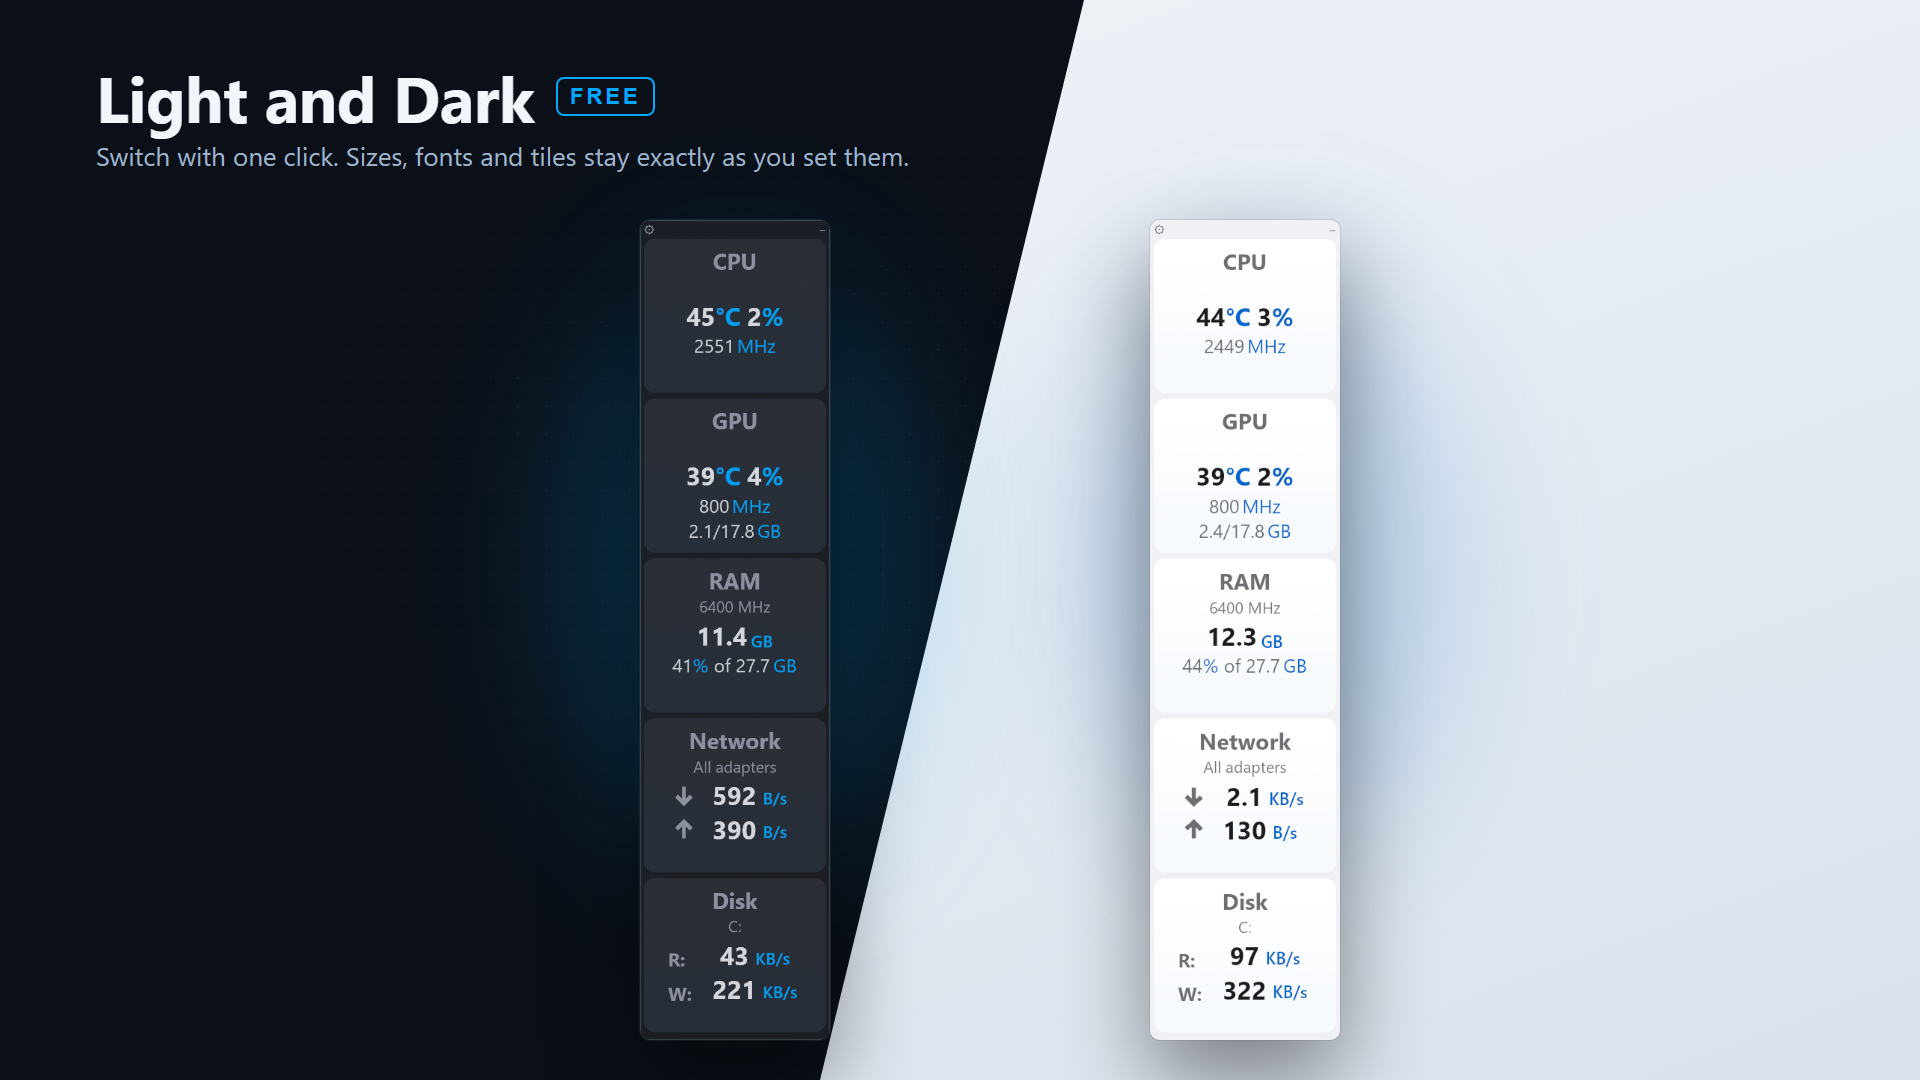
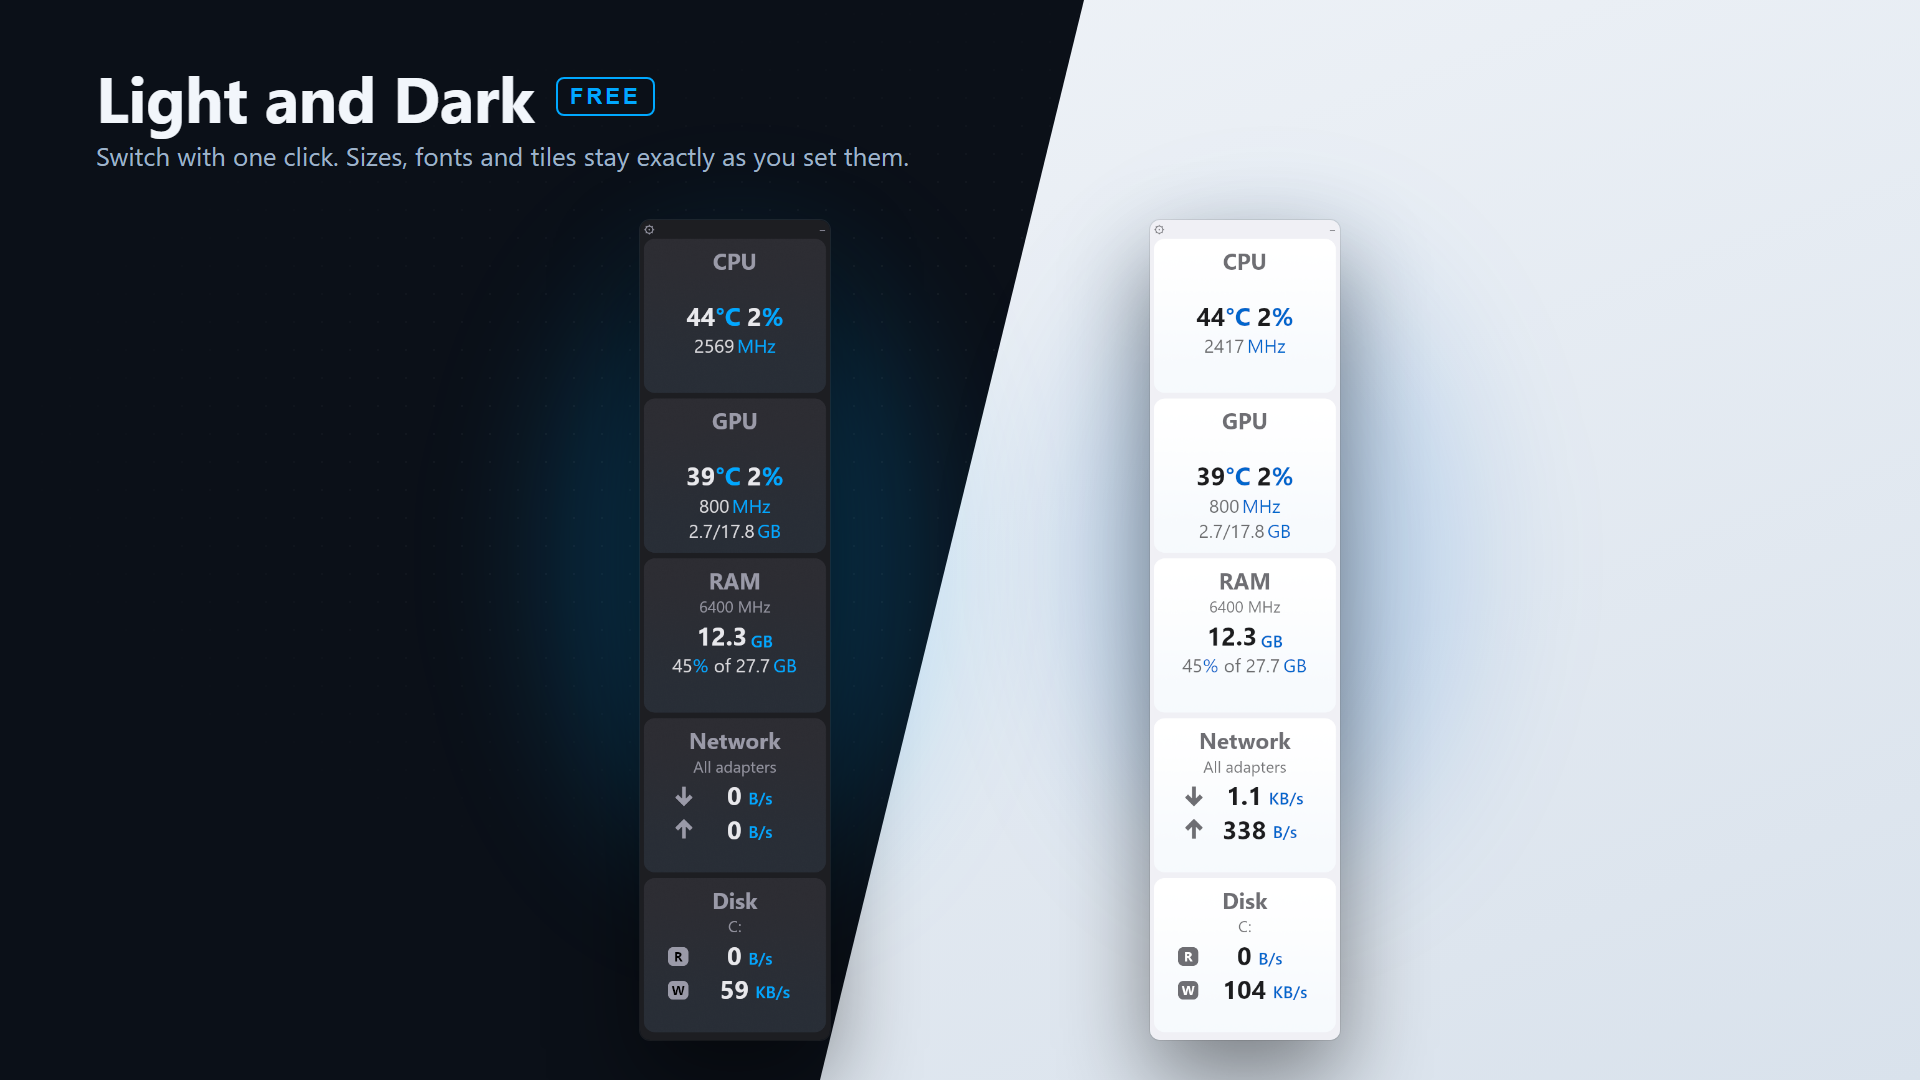
v1.3.6: README, refreshed screenshots, privacy note on the setup log
README points at the v1.3.6 standalone download with its SHA-256 and
VirusTotal result (0/71). All classic-widget screenshots are retaken with
the R/W disk badges; the colors picture now shows Classic themes in
different color schemes. The privacy policy adds the installer's local
setup log.

diff --git a/README.md b/README.md
@@ -4,8 +4,8 @@
 Flux Monitor keeps live CPU, GPU, memory, network and disk readings in a compact
 desktop widget, and Storage Explorer shows which folders fill your drives.
 
-[![Release](https://img.shields.io/badge/release-v1.3.5-5898a0)](https://github.com/matthew-hakes/FluxMonitor/releases/tag/v1.3.5)
-[![VirusTotal](https://img.shields.io/badge/VirusTotal-0%2F71-2ea44f)](https://www.virustotal.com/gui/file/bd306bf12cb5b39ec69b562e98c5e3374fe96f27af70a8cf7b1dd66ef1314515)
+[![Release](https://img.shields.io/badge/release-v1.3.6-5898a0)](https://github.com/matthew-hakes/FluxMonitor/releases/tag/v1.3.6)
+[![VirusTotal](https://img.shields.io/badge/VirusTotal-0%2F71-2ea44f)](https://www.virustotal.com/gui/file/0c49acfd737cadf40b187c28a5fb5ef18951749cd4bbf788fca1c97914fa2bff)
 ![Windows 10 and 11](https://img.shields.io/badge/Windows-10%20%7C%2011-0078d4)
 
 This repository provides downloads and documentation. The application source is private.
@@ -33,7 +33,7 @@ This repository provides downloads and documentation. The application source is 
     <td width="50%" valign="top"><a href="docs/images/pro-skin-detail.png"><img src="docs/images/pro-skin-detail.png" alt="Three material skins showing live readings"></a><br><b>Every material, live.</b> Each skin redraws the same readings in its own style.</td>
   </tr>
   <tr>
-    <td width="50%" valign="top"><a href="docs/images/pro-colors.png"><img src="docs/images/pro-colors.png" alt="Flux in several custom color schemes"></a><br><b>Your colors.</b> Pick any accent and tile color, then save the look as a preset.</td>
+    <td width="50%" valign="top"><a href="docs/images/pro-colors.png"><img src="docs/images/pro-colors.png" alt="Seven Classic themes, each in a different color scheme"></a><br><b>Themes and colors.</b> Mix any of the 21 Classic themes with colors of your own, then save the look.</td>
     <td width="50%" valign="top"><a href="docs/images/pro-alerts.png"><img src="docs/images/pro-alerts.png" alt="A tile warming and then flashing red past its limit"></a><br><b>Tile Alerts.</b> Readings warm as they climb, and the tile flashes past your limit.</td>
   </tr>
   <tr>
@@ -44,8 +44,8 @@ This repository provides downloads and documentation. The application source is 
 
 ## Release status
 
-The latest Windows download is the standalone Free **v1.3.5**. See its
-[release notes](https://github.com/matthew-hakes/FluxMonitor/releases/tag/v1.3.5)
+The latest Windows download is the standalone Free **v1.3.6**. See its
+[release notes](https://github.com/matthew-hakes/FluxMonitor/releases/tag/v1.3.6)
 for what changed. The Microsoft Store edition and its Pro upgrade are in private
 beta and are not publicly available yet.
 
@@ -96,16 +96,16 @@ authorized to monitor.
 
 ### Windows
 
-1. Download `flux-setup-free-v1.3.5.exe` and its `.sha256` file from the
-   [v1.3.5 release](https://github.com/matthew-hakes/FluxMonitor/releases/tag/v1.3.5).
+1. Download `flux-setup-free-v1.3.6.exe` and its `.sha256` file from the
+   [v1.3.6 release](https://github.com/matthew-hakes/FluxMonitor/releases/tag/v1.3.6).
 2. Check that the file matches the published checksum:
 
    ```powershell
-   Get-FileHash .\flux-setup-free-v1.3.5.exe -Algorithm SHA256
+   Get-FileHash .\flux-setup-free-v1.3.6.exe -Algorithm SHA256
    ```
 
[1 lines of base64/hex data omitted]
-   - VirusTotal: **0 / 71**, [view the scan](https://www.virustotal.com/gui/file/bd306bf12cb5b39ec69b562e98c5e3374fe96f27af70a8cf7b1dd66ef1314515)
[1 lines of base64/hex data omitted]
+   - VirusTotal: **0 / 71**, [view the scan](https://www.virustotal.com/gui/file/0c49acfd737cadf40b187c28a5fb5ef18951749cd4bbf788fca1c97914fa2bff)
 
 3. Run the installer.
 

diff --git a/PRIVACY.md b/PRIVACY.md
@@ -31,7 +31,7 @@ The current release does not offer storage cleanup. It does not delete files, em
 
 Earlier development builds offered cleanup tools. If you used one, its cleanup preferences, schedule times, pending-operation records and result history (time, operation name, result, and error details) can remain in Flux's configuration folder. These records can contain paths and Windows error text, but not file contents. Flux does not upload them or apply additional encryption to them. Windows servicing tools can keep their own logs.
 
-**Diagnostic logs.** Flux writes a local diagnostic log about startup, window behavior, and runtime problems. It can include timestamps, connection addresses (including the address of a computer that pairs for remote viewing), error messages, and hardware details. Flux does not upload logs. Review diagnostic files before sharing them with anyone, including us.
+**Diagnostic logs.** Flux writes a local diagnostic log about startup, window behavior, and runtime problems. It can include timestamps, connection addresses (including the address of a computer that pairs for remote viewing), error messages, and hardware details. The standalone installer also keeps a setup log at `%LOCALAPPDATA%\FluxSetup\setup.log` recording when setup ran, its options (which can include your Windows account identifier), each step, and any error; it stays after uninstall and is replaced once it exceeds a size limit. Flux does not upload logs. Review diagnostic files before sharing them with anyone, including us.
 
 **Clipboard.** When you choose to copy a key or code, Flux places it on the Windows clipboard. Windows clipboard history or synchronization settings may keep it.
 
@@ -80,7 +80,7 @@ We take reasonable steps in how Flux is built, but no software or network is com
 
 - Settings, pairing information, and storage-tool records remain until you remove or replace them. Turning off sharing does not delete saved keys.
 - The main diagnostic log grows over time and is replaced at a later launch once it exceeds a size limit. There is no fixed age-based deletion period for local files.
-- The standalone sensor snapshot is overwritten as readings change. Stopping or uninstalling Flux does not delete the last snapshot or setup diagnostics under ProgramData.
+- The standalone sensor snapshot is overwritten as readings change. Stopping or uninstalling Flux does not delete the last snapshot, setup diagnostics under ProgramData, or the setup log under `%LOCALAPPDATA%\FluxSetup`.
 - The Store edition's temperature helper exits when Flux exits and does not keep its readings. Store ownership information is not saved between sessions.
 - Uninstalling the standalone edition removes Flux's program files, shortcuts, startup entry, sensor service (when it is safe to do so), and firewall rule. It keeps your settings unless you choose the option to remove them. The shared PawnIO driver remains installed; manage it separately in Windows.
 - Backups, migrated settings, exported files, clipboard history, and copies held by viewers or other software may remain separately.
